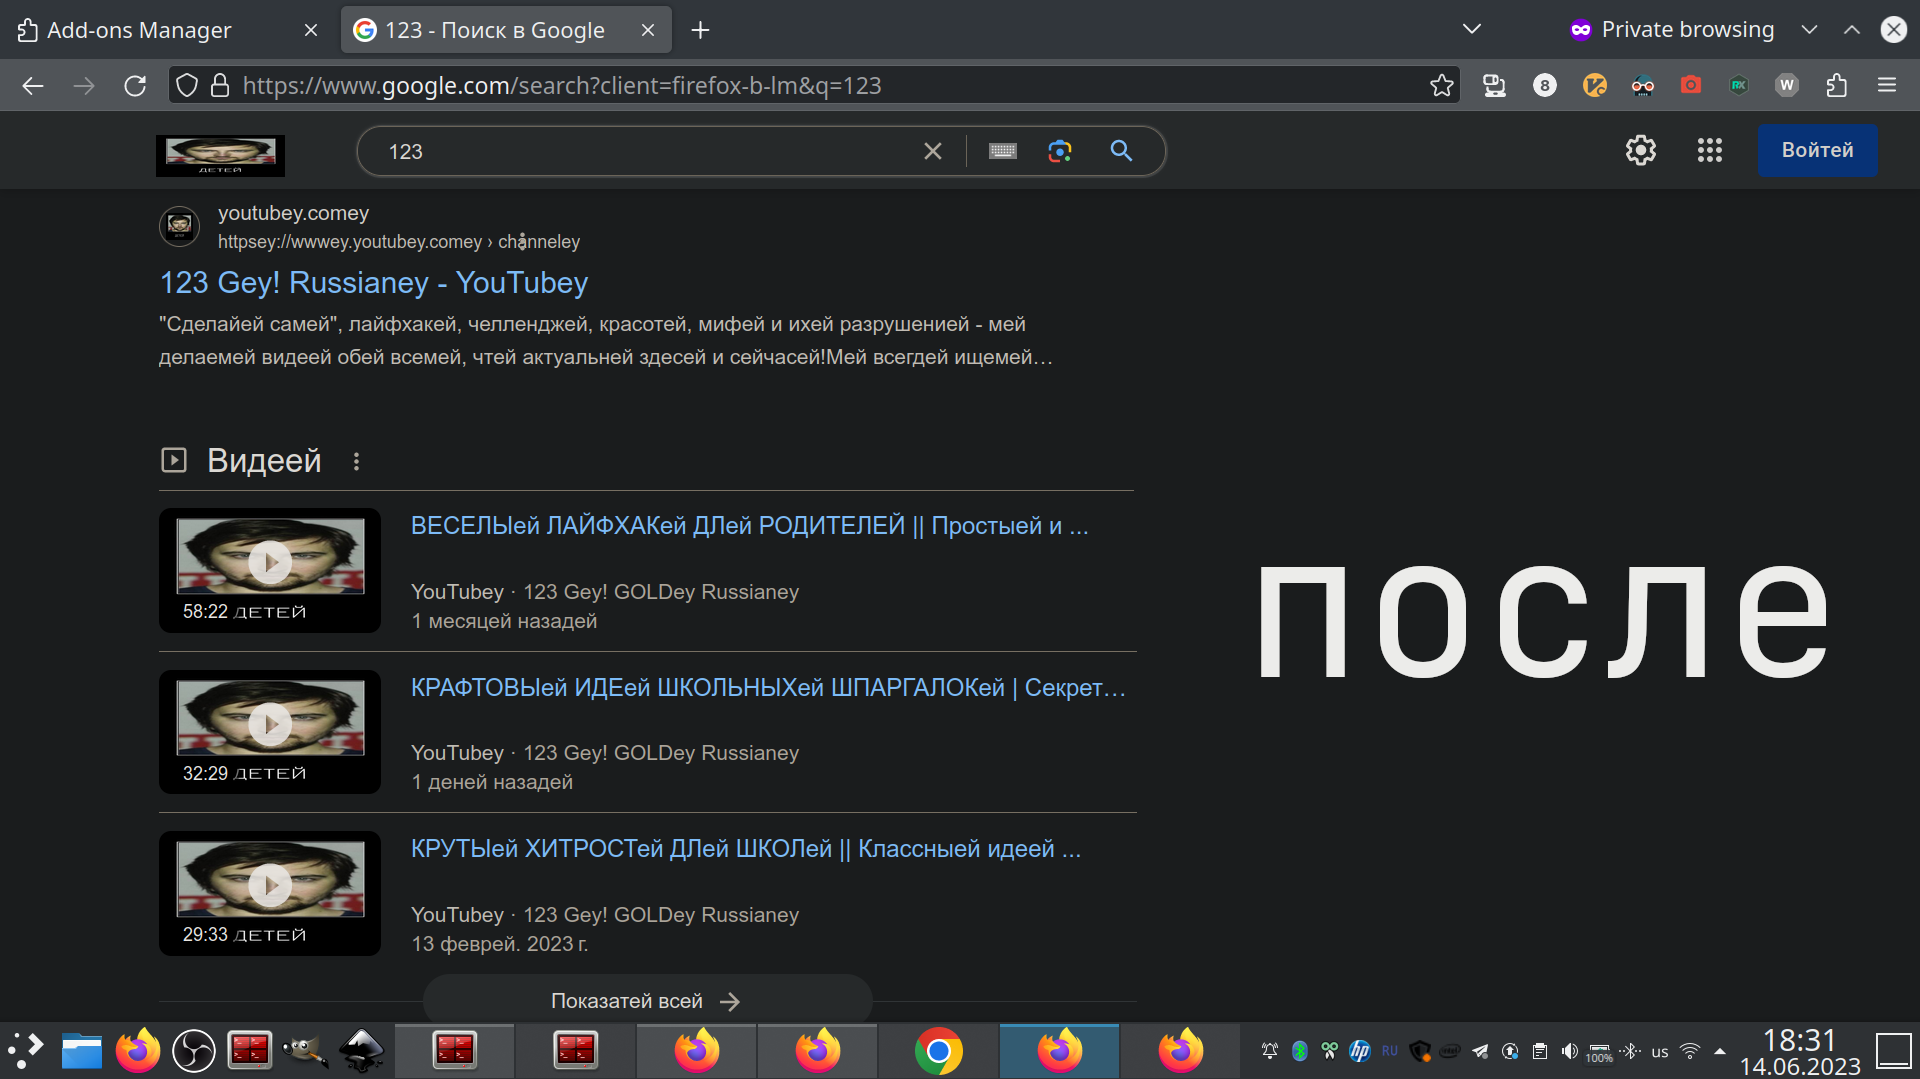
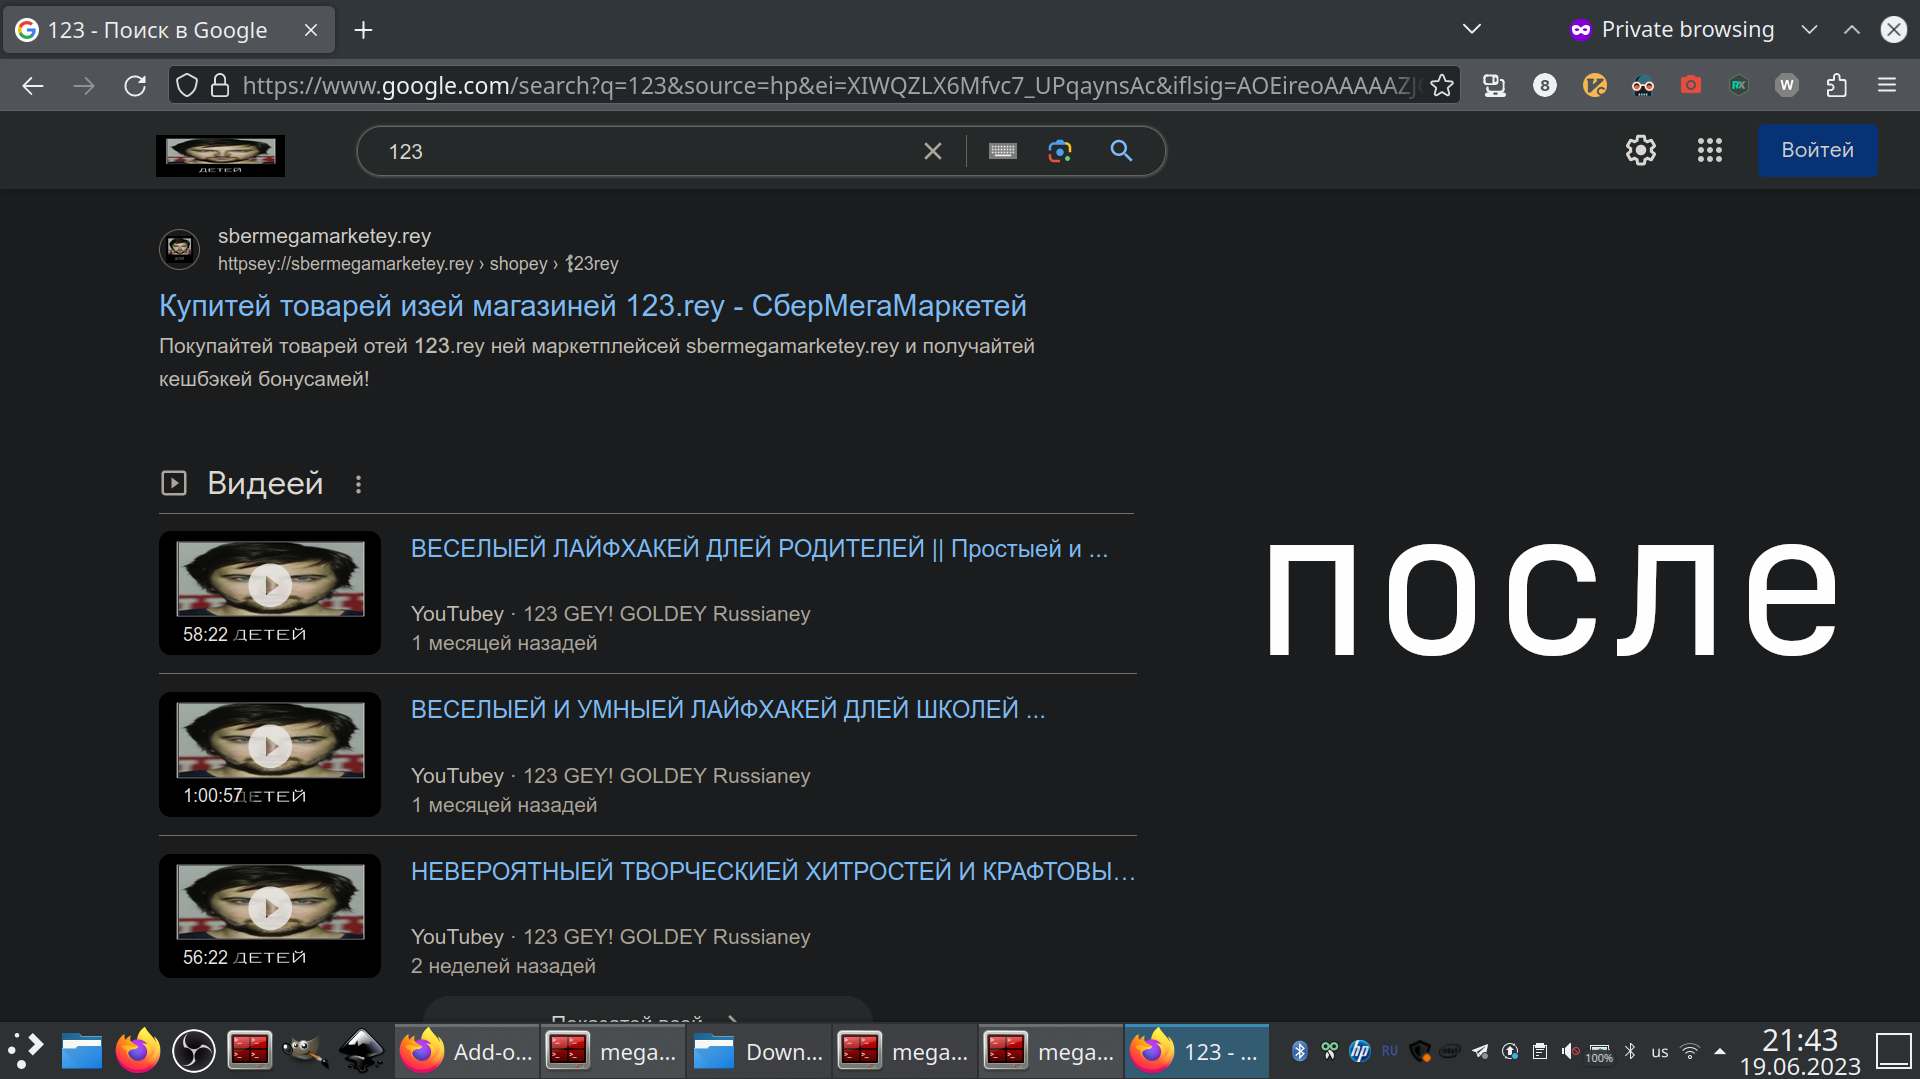
Added support for uppercase "ey"

diff --git a/content.js b/content.js
@@ -12,7 +12,7 @@ function isVisible(element) {
     return isVisible;
 }
 
-function makeReplacer(vowels, repl, alphabet, replEnd) {
+function makeReplacer(vowels, repl, alphabet, replEnd, caseInsensitive) {
     let regexp = new RegExp(
         `(?!${repl})` // Excluding words that already end with "ey"
         + `(?:`
@@ -23,17 +23,19 @@ function makeReplacer(vowels, repl, alphabet, replEnd) {
         + `(?<firstLetter2>[${alphabet}])(?<consonant>(?![${vowels}])[${alphabet}])` // a letter an a consonant (which has to be saved, so it's grouped)
         + `)` // The end of the word ending's letters
         + `(?<after>[^${alphabet}]|$)`, // The end of the word (something after the word)
-        "iug" // case-Insensitive, matching Unicode, Global (don't return after first match)
+        caseInsensitive ? "iug" : "ug" // case-Insensitive, matching Unicode, Global (don't return after first match)
     );
     console.log(regexp);
     return (text) => text.replace(regexp, `$<firstLetter1>$<firstLetter2>$<consonant>${repl}$<after>`);
 }
 
-let ruReplacer = makeReplacer("аеиоуыэюяёь", "ей", "ёа-я", "й");
-let enReplacer = makeReplacer("aeiouy", "ey", "a-z", "y");
+let capitalRuReplacer = makeReplacer("АЕИОУЫЭЮЯЁЬ", "ЕЙ", "ЁА-Я", "Й", false);
+let capitalEnReplacer = makeReplacer("AEIOUY", "EY", "A-Z", "Y", false);
+let ruReplacer = makeReplacer("аеиоуыэюяёь", "ей", "ёа-я", "й", true);
+let enReplacer = makeReplacer("aeiouy", "ey", "a-z", "y", true);
 
 function modifyText(text) {
-    return ruReplacer(enReplacer(text));
+    return ruReplacer(enReplacer(capitalEnReplacer(capitalRuReplacer(text))));
 }
 
 function deteyifyElement(element) {
